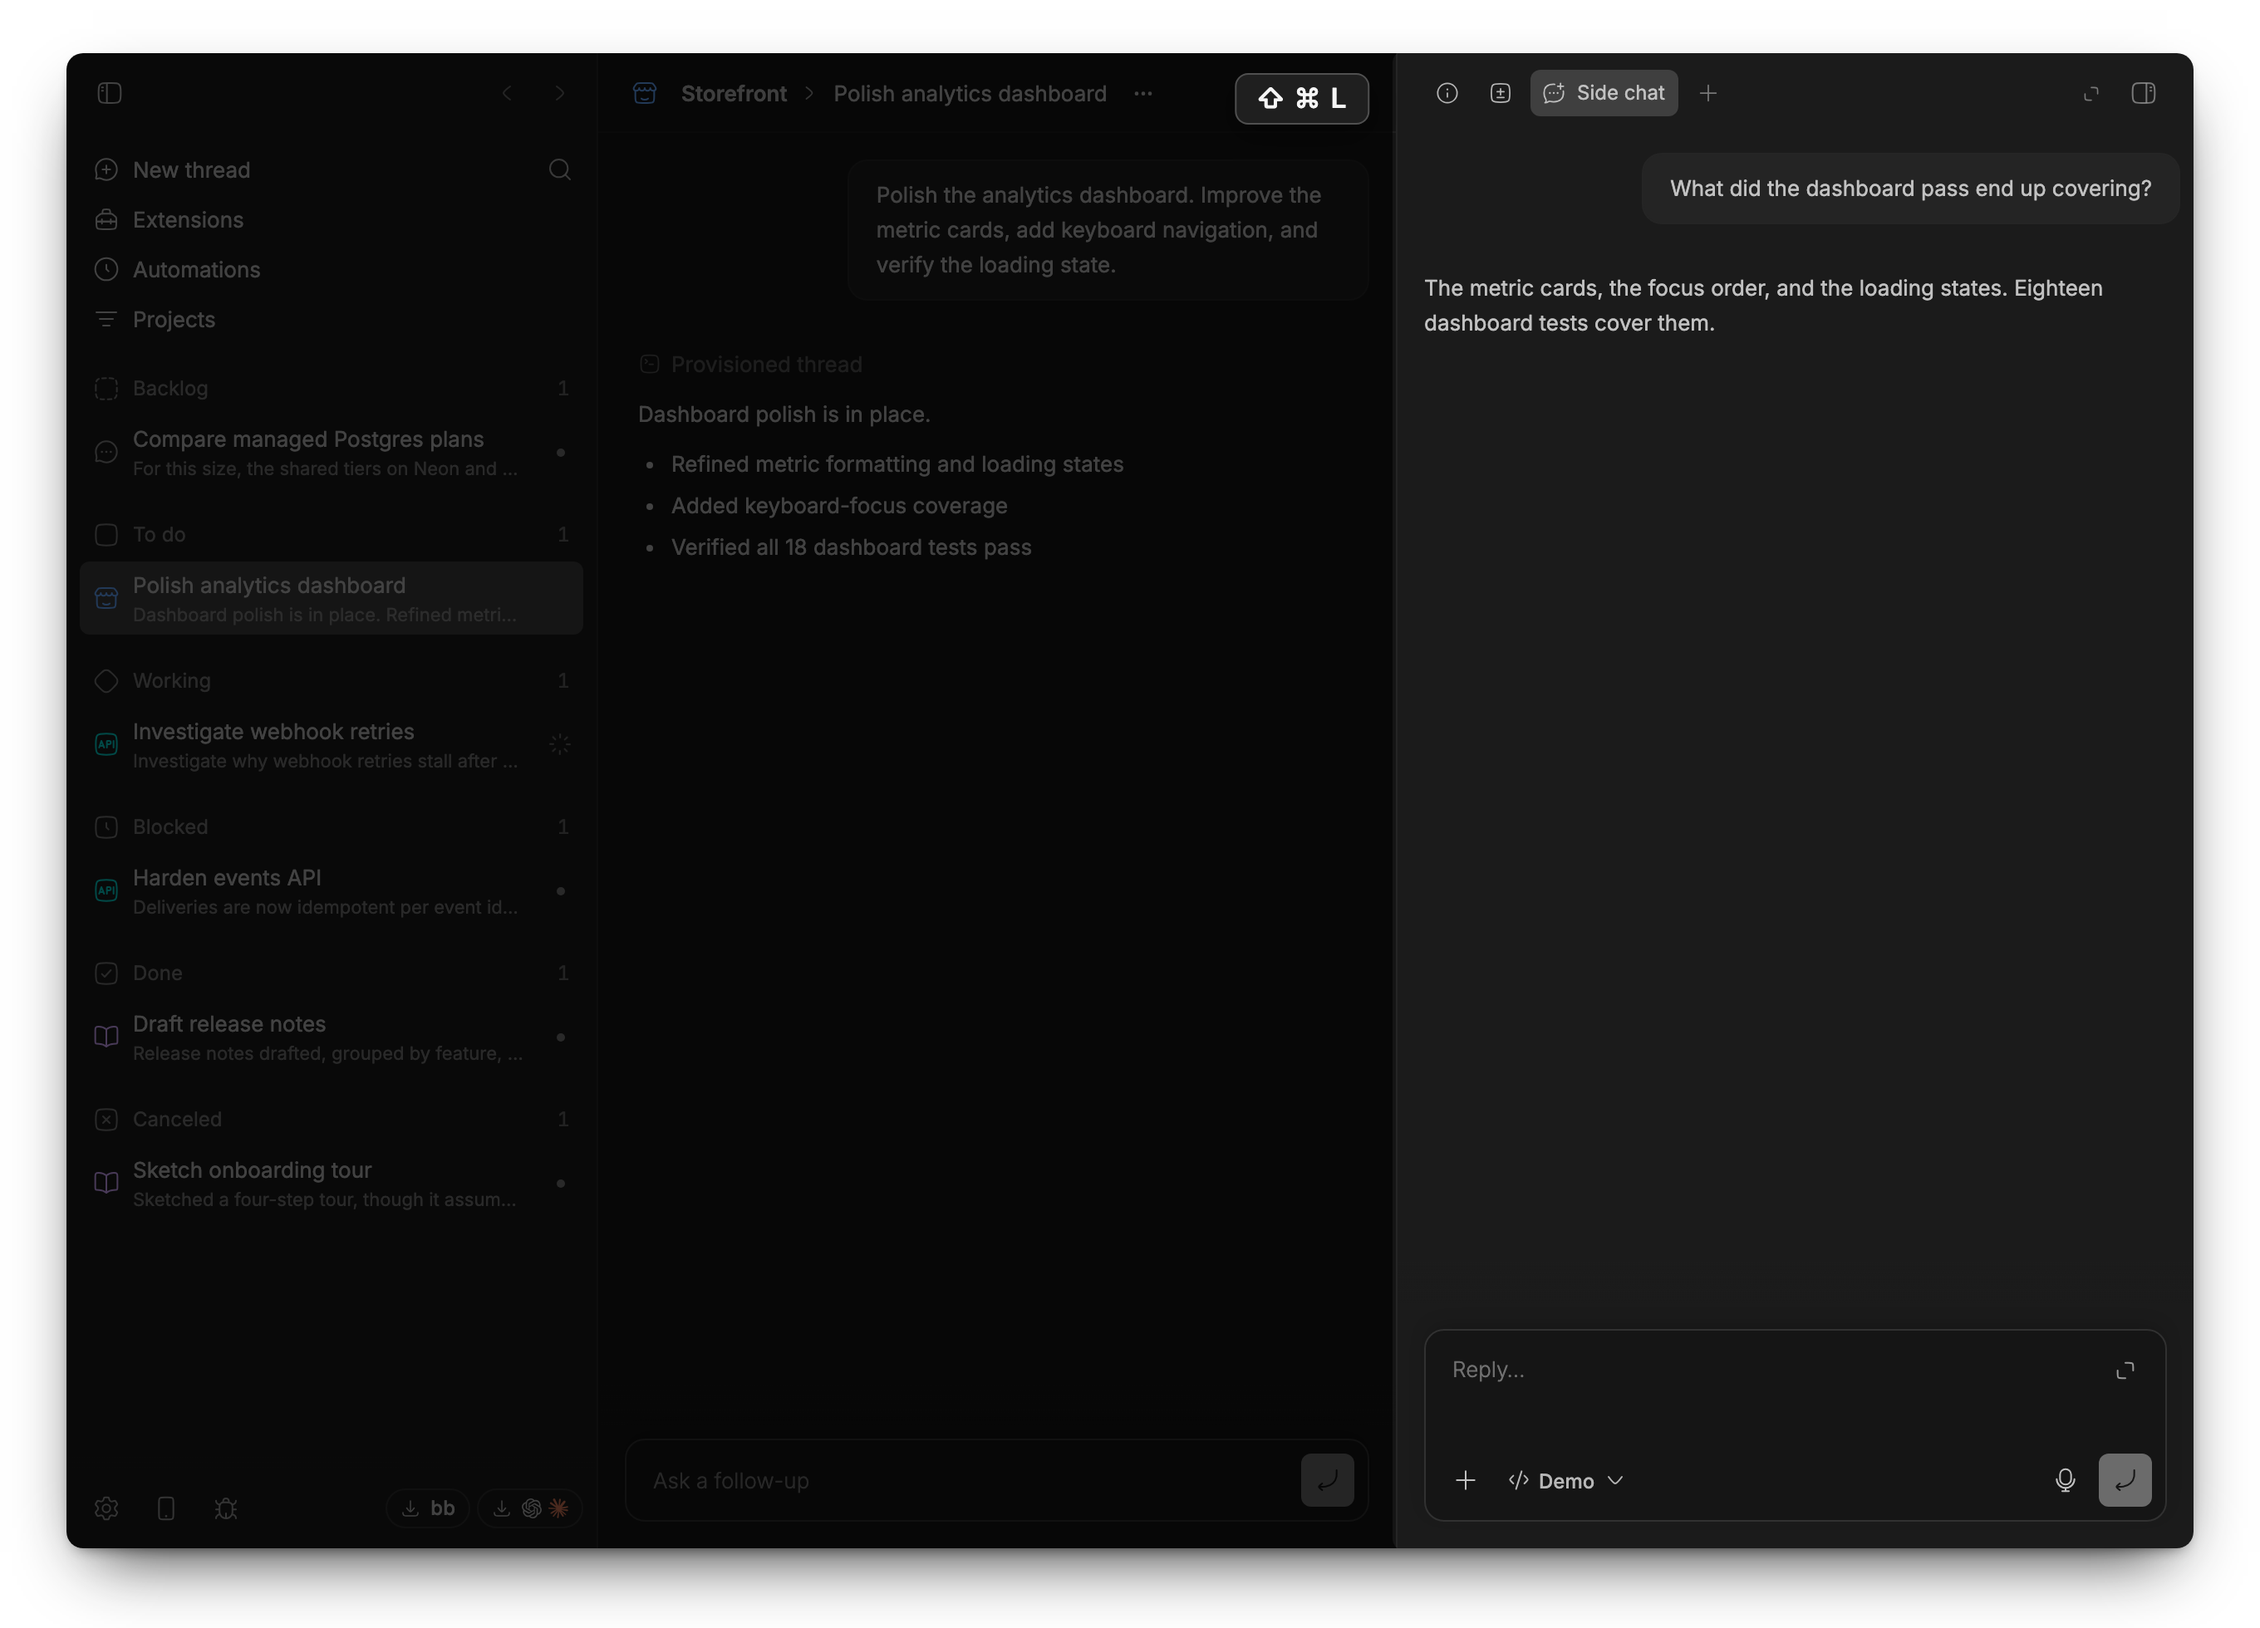
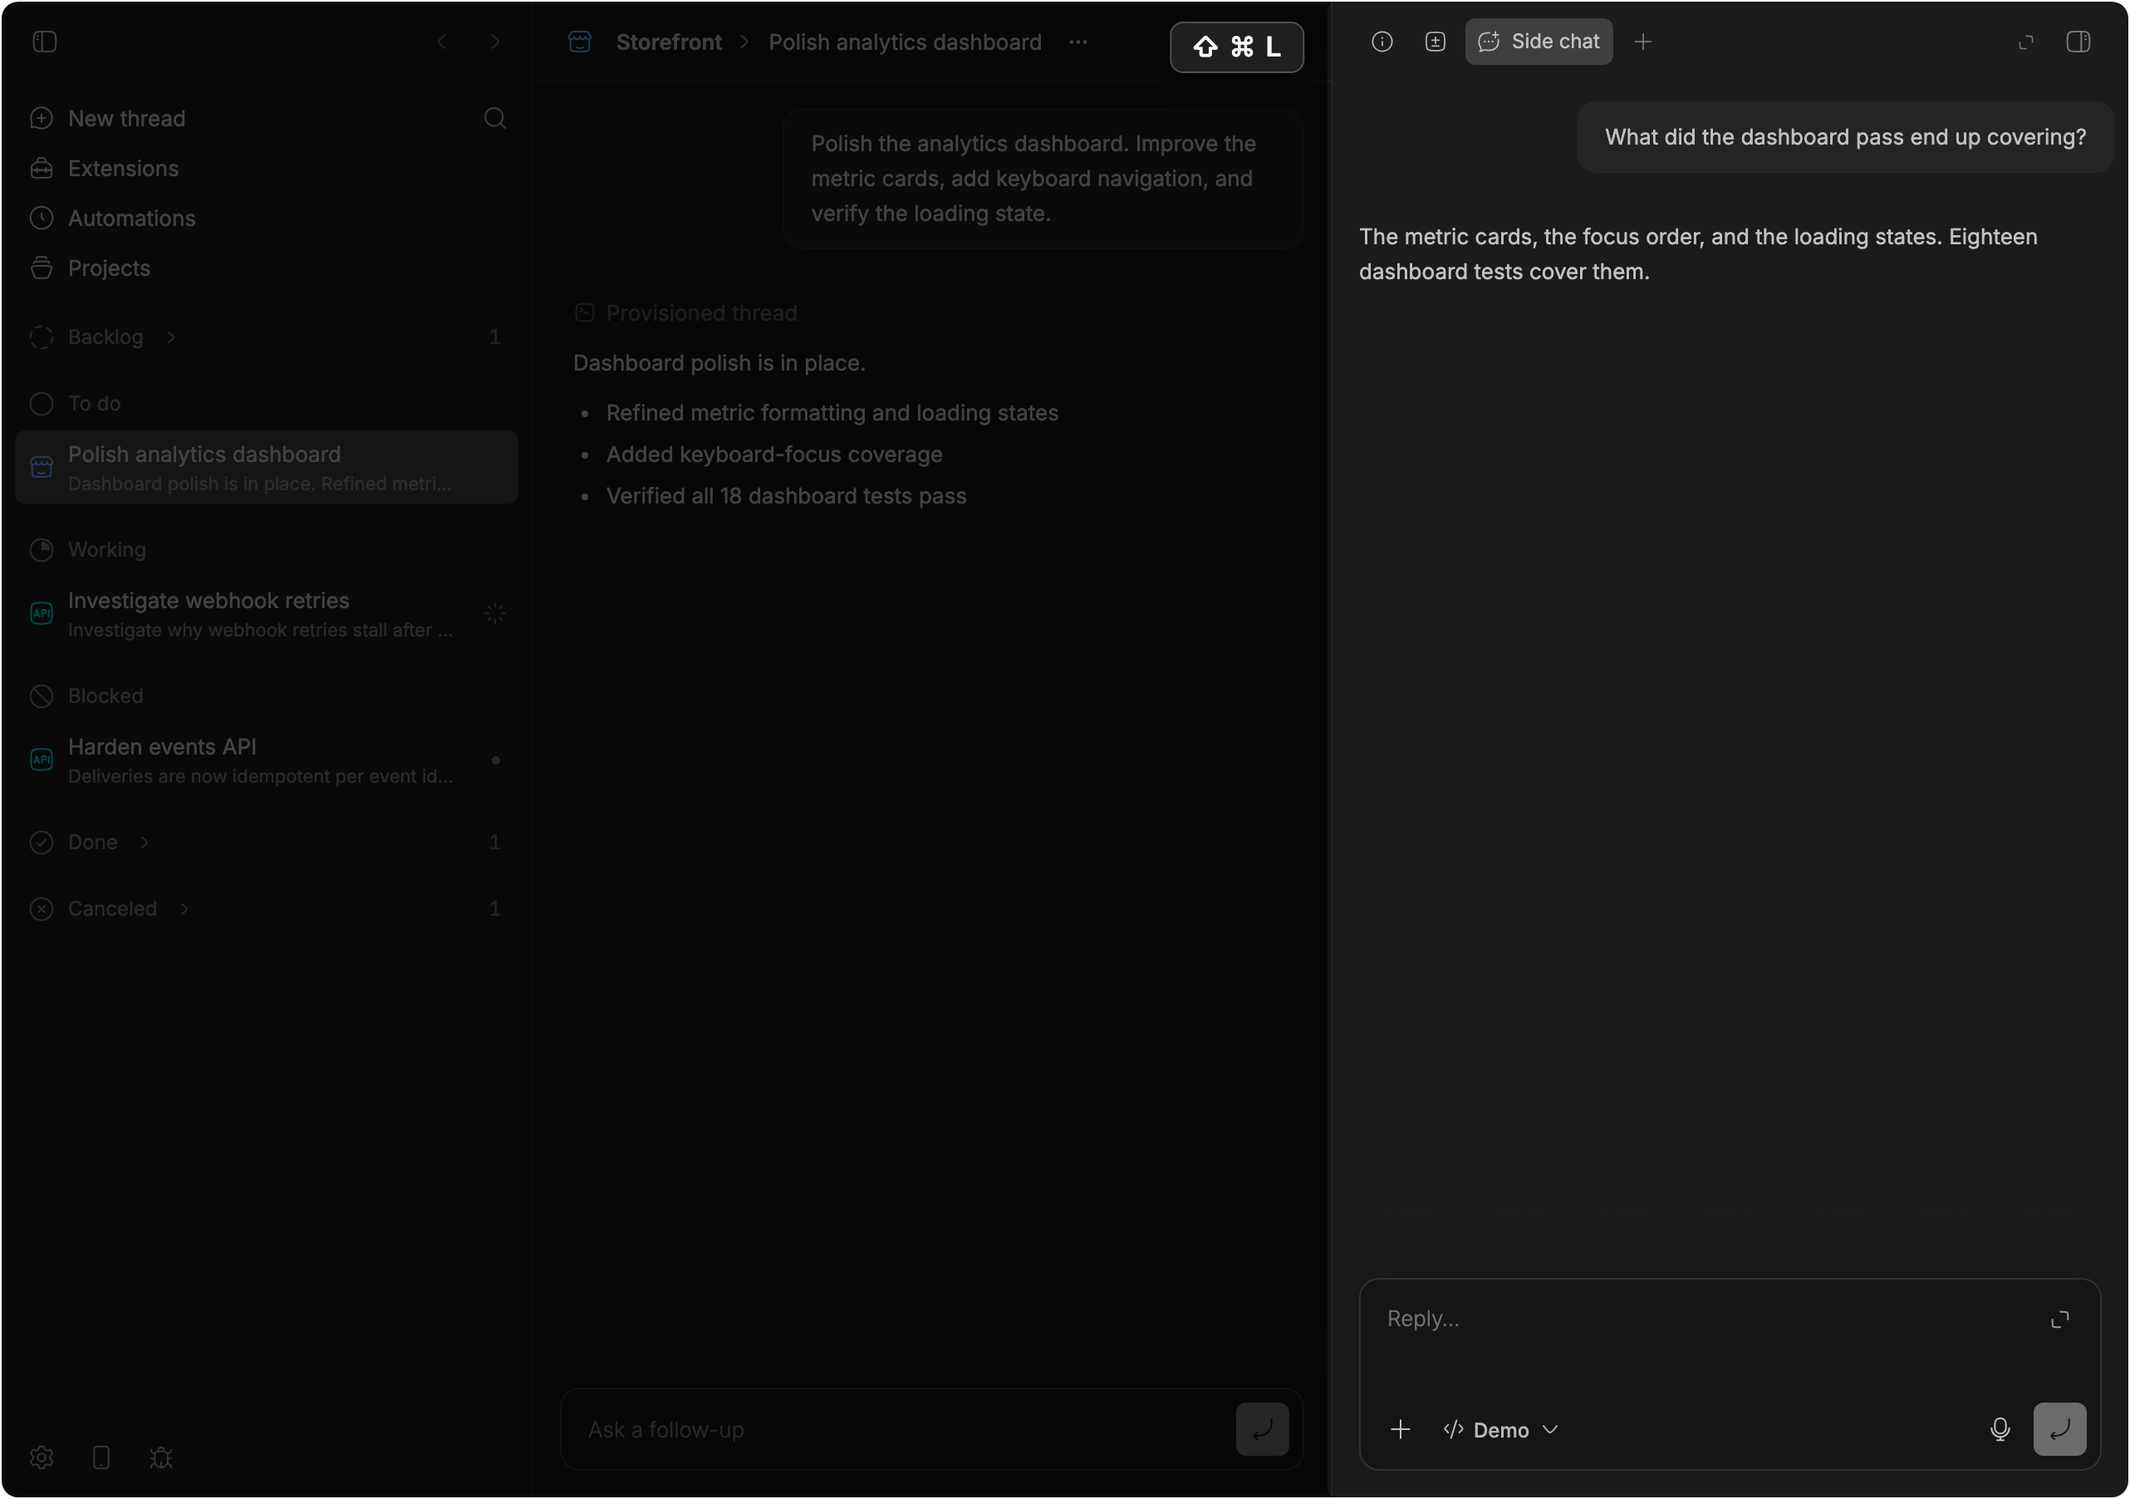
Shoot each plugin for the page it appears on
The root README needs a picture of the whole collection and one card per
plugin; a plugin's own README needs the window. So a shot now says what it is
framed for, and the harness takes each ingredient from one arranged window:

- A shot can name its own window. bb's default spends most of its height on an
  empty conversation, which is most of what a hero shows at full width; 1080
  by 620 holds the stage list, the header, the reply, and the composer, and
  being smaller it is drawn larger in the column it fills.
- A card is written twice, flush and with a left margin, because a row that
  stacks and a row that floats need different margins and GitHub strips the
  attribute that would supply one. Shadows are gone with them: a shadow falls
  sideways too, and that margin holds a window's edge out of line with the
  text beside it.
- A shot with nothing to point at shades nothing, which is what the collection
  shot is: four plugins at work in one window, none of them singled out.

And the shots hold still. Only endless animations are frozen, since pausing
every animation blanks a menu that is mid-open. The stage sidebar is waited
for by the element the plugin mounts. The composer's permission mode is waited
for rather than raced. bb's update chips are hidden, because they report what
is waiting on the capturing machine and would otherwise make one machine's
screenshots differ from another's. Two consecutive runs now produce the same
32 files, byte for byte.
[…]

diff --git a/AGENTS.md b/AGENTS.md
@@ -23,8 +23,10 @@
 ## Screenshots
 
 - Every plugin screenshot comes from `npm run screenshots`, which boots a throwaway bb, installs every plugin in this repository, seeds one shared fixture, and captures each shot in light and dark. Never edit or replace the files it writes by hand; change `scripts/screenshots/shots.mjs` and recapture.
-- Each shot is captured twice from the same arranged window, with the same shade and cutouts: `screenshot-<mode>.png` is bb's whole default window and belongs in the plugin's own README, and `card-<mode>.png` is cropped to one fixed width and belongs in the root README's table, where a shared crop width is what keeps the five cells at one zoom level. A shot chooses where its card sits, not how large it is.
-- Both carry corners and a shadow on transparent margins, but only the window shots carry the hairline edge that makes a window a window. A card is a crop of an interface, so it is rounded like a tile and left unframed.
+- Each shot is captured twice from the same arranged window, with the same shade and cutouts: `screenshot-<mode>.png` is the whole window and belongs in the plugin's own README, and `card-<mode>.png` is cropped to one fixed width and belongs in the root README's table, where a shared crop width is what keeps the five cells at one zoom level. A shot chooses where its card sits and how large a window it is framed in, but not how large the card is drawn.
+- Both carry rounded corners and no shadow, and only the window shots carry the hairline edge that makes a window a window. Margins in an image are margins a reader sees, so they exist only where a layout needs them: a card is written twice, flush for the column that stacks it and with a left margin for the column that floats it beside a paragraph.
+- A shot of the collection rather than of a plugin writes to the repository's own `assets/`: `hero-<mode>.png` shades nothing, because it points at nothing. Every other shot names the plugin it belongs to, and lands beside that plugin's own README.
+- Whatever the capturing machine brings with it stays out of frame, and whatever the app resolves late is waited for rather than raced — the update chips report this machine's pending updates, and the composer's permission mode arrives after the thread does. Two runs on one machine write the same files byte for byte; that is the bar a change to the harness has to keep.
 - Capturing needs macOS, the bb desktop app, and `npx playwright install chromium`. `npm run check:screenshots` needs neither, and CI runs it to report a screenshot whose plugin changed after it was captured.
 
 ## Testing
